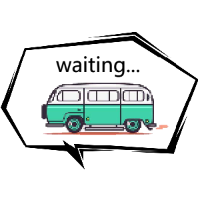
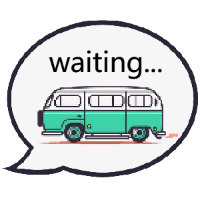
new_waiting pic_and_pos

diff --git a/src/player.cpp b/src/player.cpp
@@ -242,10 +242,10 @@ void Player::paintEvent(QPaintEvent *)
         if (waiting)
         {
             if (((now_on->filename == "main_campus" && pos_number == 153)) || (now_on->filename == "shahe_campus" && pos_number == 90)) //如果在乘车处
-                player_img.load("../data/waiting_bus.png");
+                player_img.load("../data/bus.png");
             else
-                player_img.load("../data/waiting_subway.png");
-            painter.drawPixmap(pos_x * my_ratio + my_drift - 50, pos_y * my_ratio + my_drift - 120, 100, 100, player_img);
+                player_img.load("../data/subway.png");
+            painter.drawPixmap(pos_x * my_ratio + my_drift + 10, pos_y * my_ratio + my_drift - 100, 100, 100, player_img);
         }
     }
 }
